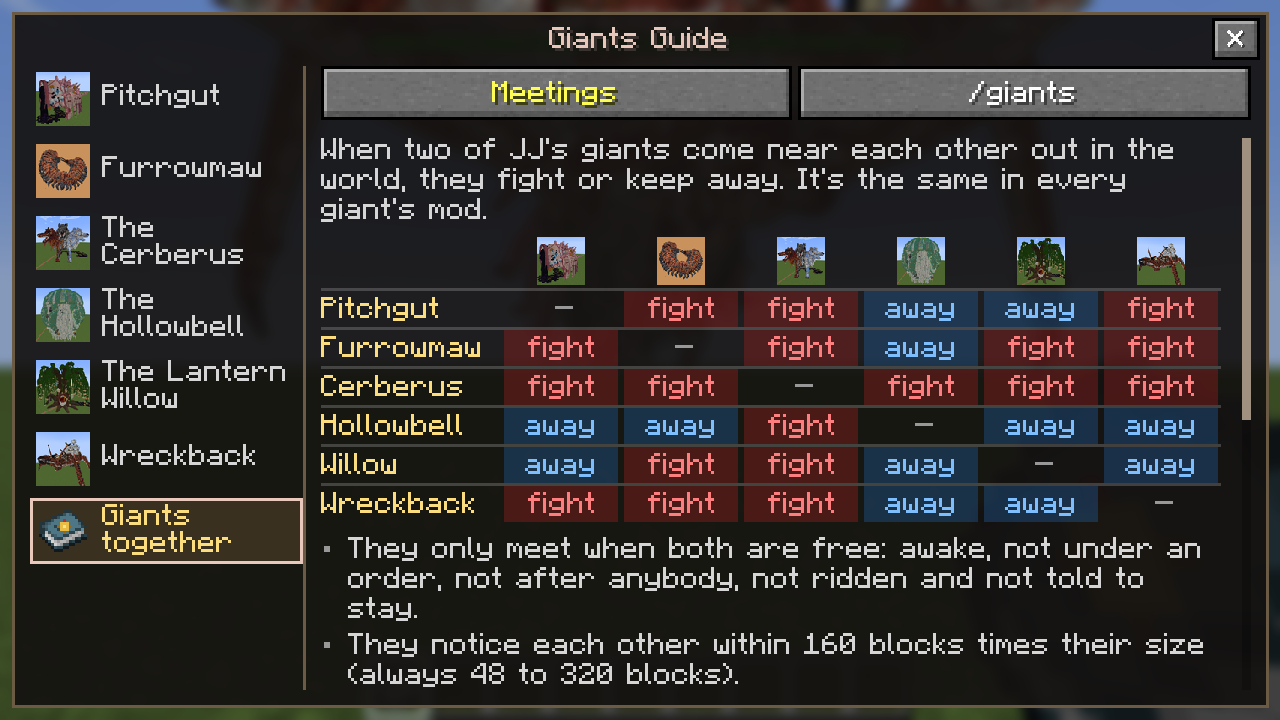
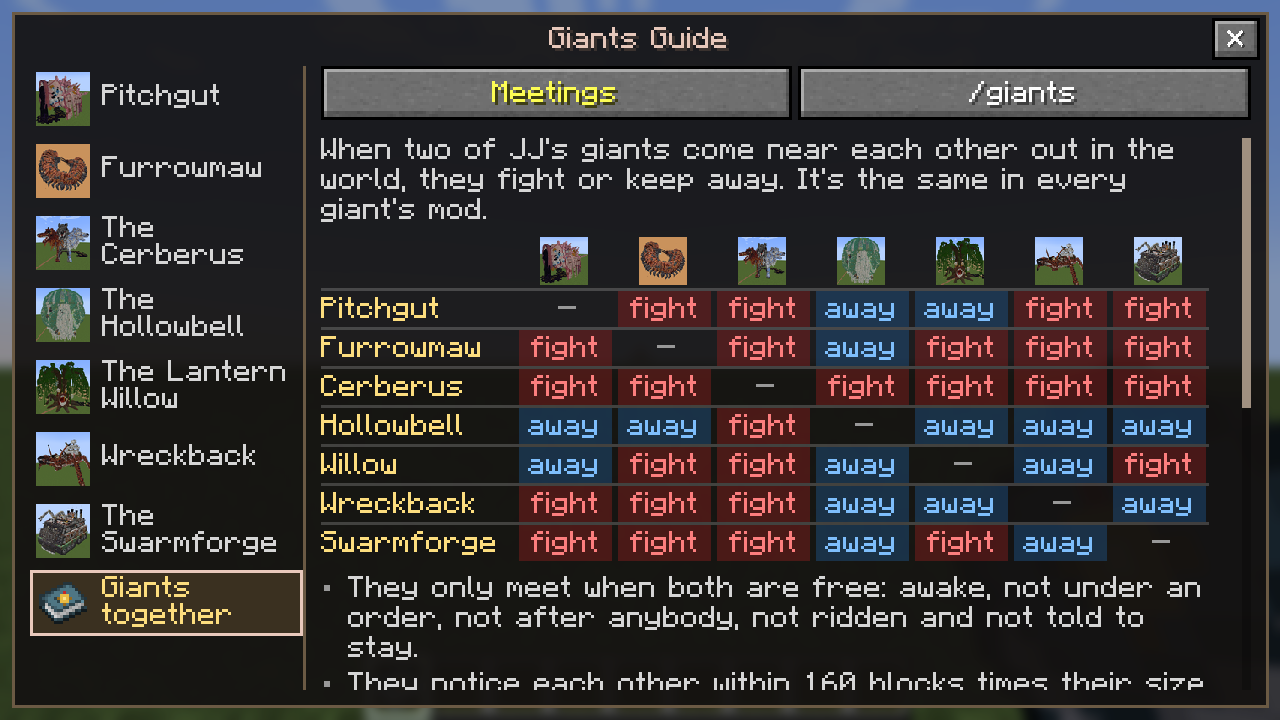
Giants Guide: the Swarmforge's pages (about, where, moves, an Army tab with every robot and unit and his book's army orders, fighting, drops with his gear, commands), his picture, and his row in the meeting table (Pitchgut, Furrowmaw, the Cerberus and the Willow fight him; the Hollowbell and Wreckba
Claude-Session: https://claude.ai/code/session_01K6VHANhmuPeJiKHCUftxpT

diff --git a/guide/src/main/java/net/jj/giants/Giants.java b/guide/src/main/java/net/jj/giants/Giants.java
@@ -18,6 +18,11 @@ public final class Giants {
     public static final int SEA = 3;
     /** the pages every giant has, in the order of the tabs (moves is made from the list above, not from lines) */
     public static final String[] PAGES = {"about", "where", "moves", "fight", "drops", "commands"};
+    /** the Swarmforge's pages: an Army tab after his moves, for his robots and units */
+    private static final String[] SWARMFORGE_PAGES = {"about", "where", "moves", "army", "fight", "drops", "commands"};
+
+    /** the tabs this giant has (the Swarmforge has one more, his army) */
+    public static String[] pages(Giant g) { return g != null && g.key().equals("swarmforge") ? SWARMFORGE_PAGES : PAGES; }
     /** most numbered lines one page can have */
     public static final int MAX_LINES = 80;
 
@@ -27,19 +32,19 @@ public final class Giants {
                             new String[]{"goo_lob", "leg_sweep", "hand_slam", "darts", "leg_stomp"},
                             new String[]{"gaze", "body_slam", "vomit", "tentacle_eruption", "loose_eyes", "scream", "tongue", "belly_crush"},
                             new String[]{"goo_storm", "eye_storm", "draw_in", "tear_off", "quake", "tentacle_field"}),
-                    Set.of("furrowmaw", "cerberus", "wreckback")),
+                    Set.of("furrowmaw", "cerberus", "wreckback", "swarmforge")),
             new Giant("furrowmaw", "furrowmaw", "furrowmaw", "net.jj.furrowmaw.GiantsBridge",
                     moves("attack.furrowmaw.", "codex.furrowmaw.move_tip.",
                             new String[]{"bite", "spit", "tail_flick", "dust"},
                             new String[]{"slam", "swallow", "charge", "shriek", "vent", "tail_whip", "tremor", "thrash", "coil", "breach=codex.furrowmaw.breach_short"},
                             new String[]{"roll", "erupt", "sinkhole", "great_slam", "magma_storm", "rupture", "inhale"}),
-                    Set.of("pitchgut", "cerberus", "lanternwillow", "wreckback")),
+                    Set.of("pitchgut", "cerberus", "lanternwillow", "wreckback", "swarmforge")),
             new Giant("cerberus", "fire_ice_cerberus", "cerberus", "net.jj.cerberus.GiantsBridge",
                     moves("attack.fire_ice_cerberus.", "codex.fire_ice_cerberus.move_tip.",
                             new String[]{"bite", "swipe", "tail_sweep", "fireballs", "shake"},
                             new String[]{"flame_breath", "frost_breath", "ice_spikes", "boulder", "stomp", "roar", "cinder_rain", "hail", "howl"},
                             new String[]{"pounce", "charge", "twin_breath", "firestorm", "frost_nova", "frenzy", "quake_slam"}),
-                    Set.of("pitchgut", "furrowmaw", "hollowbell", "lanternwillow", "wreckback")),
+                    Set.of("pitchgut", "furrowmaw", "hollowbell", "lanternwillow", "wreckback", "swarmforge")),
             new Giant("hollowbell", "hollowbell", "hollowbell", "net.jj.hollowbell.GiantsBridge",
                     moves("move.hollowbell.", "codex.hollowbell.move_tip.",
                             new String[]{"grab", "harvest", "sting_volley", "strand_lash", "glow_flash"},
@@ -51,7 +56,7 @@ public final class Giants {
                             new String[]{"strand_lash", "root_jab", "mud_spit", "lure_call", "eye_flash", "bite"},
                             new String[]{"swallow", "strand_sweep", "root_stamp", "root_snare", "lantern_burst", "call_the_small", "bog", "seed_cloud"},
                             new String[]{"weeping_storm", "uproot_slam", "devour", "root_web", "lantern_nova", "limb_crash", "root_quake", "drink_the_land", "pull_under"}),
-                    Set.of("furrowmaw", "cerberus")),
+                    Set.of("furrowmaw", "cerberus", "swarmforge")),
             new Giant("wreckback", "wreckback", "wreckback", "net.jj.wreckback.GiantsBridge",
                     moves("move.wreckback.", "codex.wreckback.move_tip.",
                             new String[]{"claw_snip", "feeler_lash", "barnacle_spit", "claw_sweep", "leg_stab", "grapeshot"},
@@ -59,7 +64,14 @@ public final class Giants {
                                     "hull_ram", "barnacle_mortar", "kelp_snare", "silt_cloud", "drowned_crew", "ships_bell"},
                             new String[]{"anchor_swing", "mast_sweep", "tide_pull", "shell_slam", "pincer_crush", "cannon_barrage", "feeler_storm", "whirlpool"},
                             new String[]{"tidal_wave", "deeps_grasp", "full_broadside", "maelstrom", "depth_charge", "storm_call", "riptide_charge"}),
-                    Set.of("pitchgut", "furrowmaw", "cerberus")));
+                    Set.of("pitchgut", "furrowmaw", "cerberus")),
+            new Giant("swarmforge", "swarmforge", "swarmforge", "net.jj.swarmforge.GiantsBridge",
+                    moves("move.swarmforge.", "codex.swarmforge.move_tip.",
+                            new String[]{"scrap_cannon", "smoke_screen", "spotlight_lock", "rally", "mine_layer", "repair_bot", "barricade"},
+                            new String[]{"tread_crush", "crane_swing", "crane_grab", "alarm", "paratroop_pod", "drone_swarm", "deploy_turret",
+                                    "shield_drone", "drill_bots", "sniper", "mortar_crawler"},
+                            new String[]{"crane_slam", "furnace_blast", "ram_charge", "overclock"}),
+                    Set.of("pitchgut", "furrowmaw", "cerberus", "lanternwillow")));
 
     private Giants() {}
 

diff --git a/guide/src/main/java/net/jj/giants/test/GuideGameTests.java b/guide/src/main/java/net/jj/giants/test/GuideGameTests.java
@@ -40,7 +40,7 @@ import java.util.UUID;
 /** The guide's game tests: the recipe, the book on first join, /giantsguide, its data and its lines, the live news. */
 public class GuideGameTests implements FabricGameTest {
     /** every giant mod there is: the guide must have a page for each */
-    private static final Set<String> GIANT_MODS = Set.of("mountain_breathes", "furrowmaw", "fire_ice_cerberus", "hollowbell", "lanternwillow", "wreckback");
+    private static final Set<String> GIANT_MODS = Set.of("mountain_breathes", "furrowmaw", "fire_ice_cerberus", "hollowbell", "lanternwillow", "wreckback", "swarmforge");
 
     @SuppressWarnings("deprecation")
     private static ServerPlayer player(GameTestHelper h, UUID id) {
@@ -154,7 +154,7 @@ public class GuideGameTests implements FabricGameTest {
         for (Giant g : Giants.ALL) {
             for (String k : new String[]{g.nameKey(), g.roleKey(), g.sizeKey(), "guide.jj_giants." + g.key() + ".short"})
                 if (!text(l, k)) wrong.add("missing " + k);
-            for (String page : Giants.PAGES)
+            for (String page : Giants.pages(g))
                 if (!page.equals("moves") && !text(l, g.lineKey(page, 1))) wrong.add("no " + page + " page for " + g.key());
             // (light, medium and heavy: every giant has them; only Wreckback has sea moves)
             for (int t = 0; t < 3; t++) {
@@ -174,7 +174,7 @@ public class GuideGameTests implements FabricGameTest {
                 }
             }
             // every page line: items and recipes it names are real when his mod is here
-            for (String page : Giants.PAGES)
+            for (String page : Giants.pages(g))
                 for (int n = 1; n <= Giants.MAX_LINES && l.has(g.lineKey(page, n)); n++) {
                     String s = l.get(g.lineKey(page, n)).getAsString();
                     checkLine(h, s, g.key() + "." + page + "." + n, wrong);
@@ -215,10 +215,11 @@ public class GuideGameTests implements FabricGameTest {
         // the table every giant's own mod has (and its README): only these pairs fight
         String[][] fights = {{"pitchgut", "furrowmaw"}, {"pitchgut", "cerberus"}, {"furrowmaw", "cerberus"}, {"furrowmaw", "lanternwillow"},
                 {"cerberus", "hollowbell"}, {"cerberus", "lanternwillow"},
-                {"pitchgut", "wreckback"}, {"furrowmaw", "wreckback"}, {"cerberus", "wreckback"}};
+                {"pitchgut", "wreckback"}, {"furrowmaw", "wreckback"}, {"cerberus", "wreckback"},
+                {"pitchgut", "swarmforge"}, {"furrowmaw", "swarmforge"}, {"cerberus", "swarmforge"}, {"lanternwillow", "swarmforge"}};
         int n = 0;
         for (Giant a : Giants.ALL) for (Giant b : Giants.ALL) if (a.key().compareTo(b.key()) < 0 && Giants.fight(a, b)) n++;
-        h.assertTrue(n == fights.length, "nine pairs fight (" + n + ")");
+        h.assertTrue(n == fights.length, "thirteen pairs fight (" + n + ")");
         for (String[] f : fights) h.assertTrue(Giants.fight(Giants.byKey(f[0]), Giants.byKey(f[1])), f[0] + " fights " + f[1]);
         h.succeed();
     }

diff --git a/guide/src/client/java/net/jj/giants/client/GuideScreen.java b/guide/src/client/java/net/jj/giants/client/GuideScreen.java
@@ -65,7 +65,7 @@ public class GuideScreen extends Screen {
 
     private boolean together() { return pick >= giants.size(); }
     private @Nullable Giant giant() { return together() ? null : giants.get(pick); }
-    private String[] pages() { return together() ? TOGETHER_PAGES : Giants.PAGES; }
+    private String[] pages() { return together() ? TOGETHER_PAGES : Giants.pages(giant()); }
     private int entries() { return giants.isEmpty() ? 0 : giants.size() + 1; }
 
     @Override
@@ -134,7 +134,7 @@ public class GuideScreen extends Screen {
             lines("guide.jj_giants.together." + TOGETHER_PAGES[tab] + ".");
         } else {
             Giant g = giant();
-            String page = Giants.PAGES[tab];
+            String page = Giants.pages(g)[tab];
             if (page.equals("moves")) movesPage(g);
             else lines("guide.jj_giants." + g.key() + "." + page + ".");
             if (page.equals("where")) { Live.ask(g.key()); shownNews = Live.news(g.key()); }
@@ -453,7 +453,7 @@ public class GuideScreen extends Screen {
     @Override
     public void render(GuiGraphics g, int mx, int my, float partial) {
         // the live news came in (or changed): lay the page out again where it is
-        if (!together() && !giants.isEmpty() && Giants.PAGES[tab].equals("where")) {
+        if (!together() && !giants.isEmpty() && Giants.pages(giant())[tab].equals("where")) {
             Live.News n = Live.news(giant().key());
             if (n != shownNews) {
                 boolean atEnd = contentH > ch && scroll >= contentH - ch - 1;

diff --git a/guide/tools/sync_moves.py b/guide/tools/sync_moves.py
@@ -6,7 +6,7 @@ import json, os, re, collections
 here = os.path.dirname(os.path.dirname(os.path.abspath(__file__)))
 lang_path = os.path.join(here, 'src/main/resources/assets/jj_giants/lang/en_us.json')
 src = open(os.path.join(here, 'src/main/java/net/jj/giants/Giants.java')).read()
-REPO = {'pitchgut': 'pitchgut', 'furrowmaw': 'furrowmaw', 'cerberus': 'cerberus', 'hollowbell': 'hollowbell', 'lanternwillow': 'lanternwillow'}
+REPO = {'pitchgut': 'pitchgut', 'furrowmaw': 'furrowmaw', 'cerberus': 'cerberus', 'hollowbell': 'hollowbell', 'lanternwillow': 'lanternwillow', 'wreckback': 'wreckback', 'swarmforge': 'swarmforge'}
 lang = json.load(open(lang_path), object_pairs_hook=collections.OrderedDict)
 # each entry: new Giant("key", "modid", ... moves("namePrefix", "whatPrefix", {light}, {medium}, {heavy})
 for m in re.finditer(r'new Giant\("(\w+)", "(\w+)".*?moves\("([\w.]+)", "([\w.]+)",(.*?)\}\),\s*Set\.of', src, re.S):

diff --git a/guide/tools/giant_mods.py b/guide/tools/giant_mods.py
@@ -2,7 +2,7 @@
 # test and picture runs (gradle ... -Pgiants) have the real giants loaded.  usage: python3 tools/giant_mods.py
 import zipfile, json, glob, os, re
 REPOS = {'pitchgut': 'pitchgut-', 'furrowmaw': 'furrowmaw-', 'cerberus': 'fire-ice-cerberus-',
-         'hollowbell': 'hollowbell-', 'lanternwillow': 'lanternwillow-', 'wreckback': 'wreckback-'}
+         'hollowbell': 'hollowbell-', 'lanternwillow': 'lanternwillow-', 'wreckback': 'wreckback-', 'swarmforge': 'swarmforge-'}
 def ver(p):
     m = re.search(r'-(\d+(?:\.\d+)*)\.jar$', p)
     return tuple(int(x) for x in m.group(1).split('.')) if m else ()
